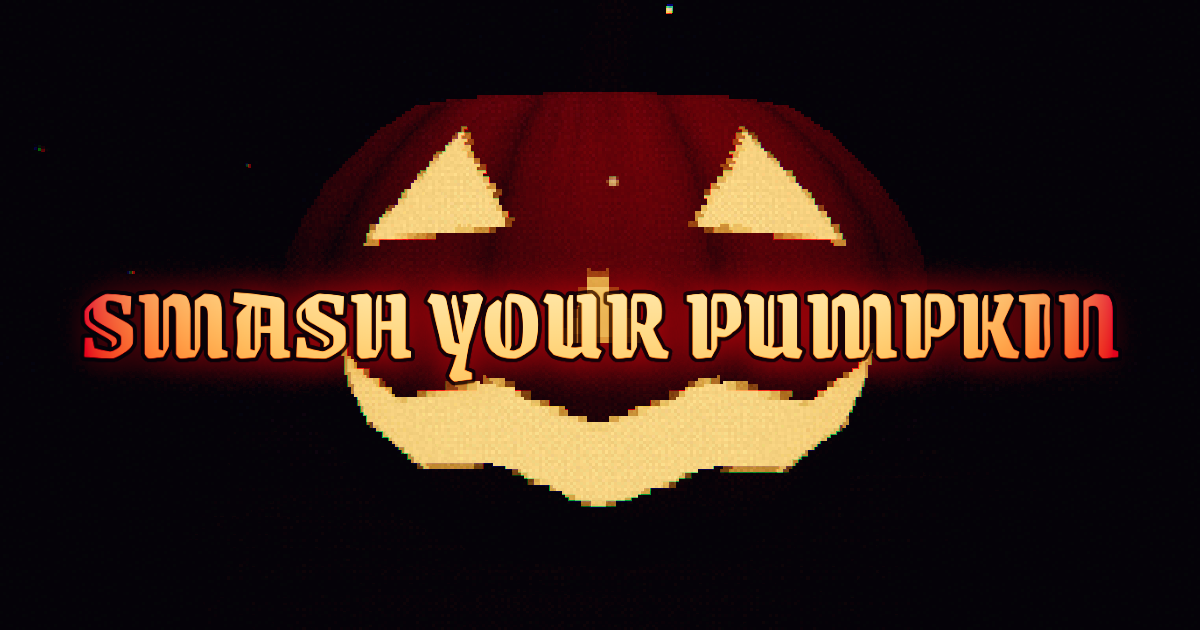
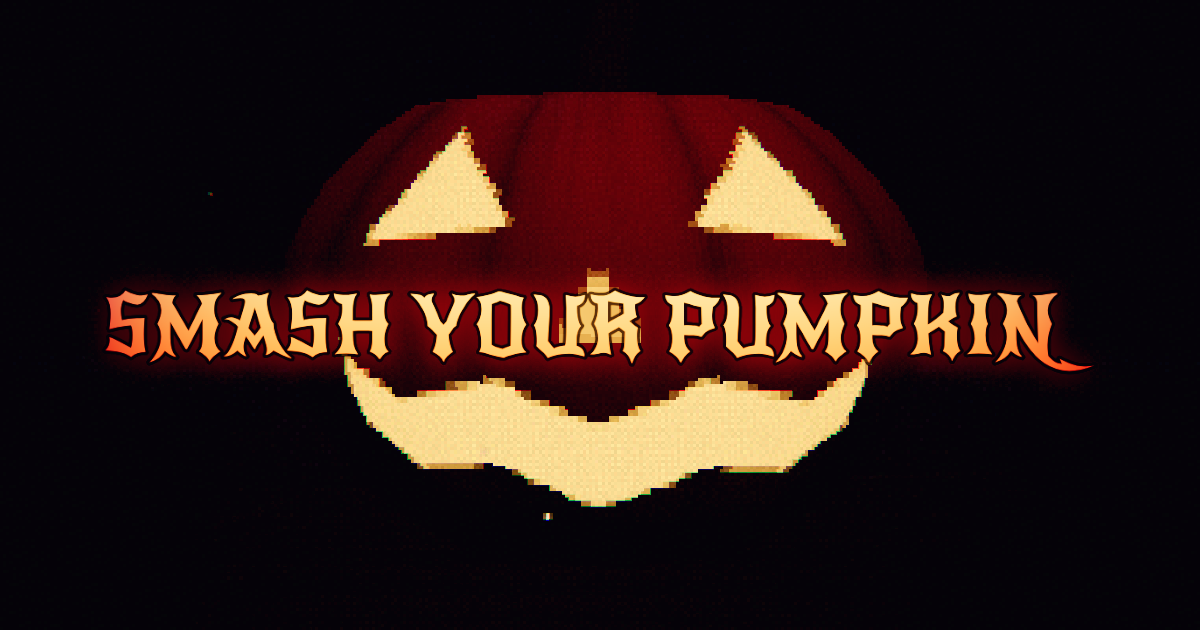
Switch the title face to New Rocker; dots-only loader
- Titles and words use New Rocker (Jacquard 24 stays for numbers).
  Its swashes reach past the advance width, so UI text canvases are now
  sized and centred on the painted ink bounds, and the title face gets
  extra padding; otherwise the tails of N, L, K were clipped.
- The loader is just the stage name with dots ticking after it (drawn
  by an inline script, so they tick before any module loads); the
  progress bar is gone.
- Cover re-rendered with the new face.

Claude-Session: https://claude.ai/code/session_01FvQx2HVCfoZmvo2wAnZAg2

diff --git a/index.html b/index.html
@@ -20,7 +20,7 @@
     <link rel="preconnect" href="https://fonts.googleapis.com" />
     <link rel="preconnect" href="https://fonts.gstatic.com" crossorigin />
     <link
-      href="https://fonts.googleapis.com/css2?family=Grenze+Gotisch:wght@700&family=Jacquard+24&family=Pixelify+Sans:wght@400;700&display=block"
+      href="https://fonts.googleapis.com/css2?family=New+Rocker&family=Jacquard+24&family=Pixelify+Sans:wght@400;700&display=block"
       rel="stylesheet"
     />
     <style>
@@ -33,24 +33,16 @@
         transition: opacity 0.8s ease;
       }
       #loader.done { opacity: 0; pointer-events: none; }
-      /* Same gothic face and ember glow as the in-game titles. */
+      /* Same face and ember glow as the in-game titles. */
       #loader .label {
-        font: 700 clamp(26px, 7vw, 44px) "Grenze Gotisch", serif; text-align: center;
+        font: 400 clamp(26px, 7vw, 44px) "New Rocker", serif; text-align: center;
         background: linear-gradient(#ffe9a8, #ff7a1a); -webkit-background-clip: text; background-clip: text;
         color: transparent; filter: drop-shadow(0 0 10px rgba(255, 74, 16, 0.7));
         animation: flicker 2.2s infinite steps(1); transition: opacity 0.25s ease;
       }
       #loader .label.swap { opacity: 0; }
-      /* Chunky segmented bar: embers filling a charred slot. */
-      #loader .bar {
-        width: min(300px, 70vw); height: 14px; padding: 3px; background: #12060c;
-        border: 2px solid #3b1650; box-shadow: 0 0 0 2px #07030c, 0 0 18px rgba(59, 22, 80, 0.6);
-      }
-      #loader .fill {
-        height: 100%; width: 0; transition: width 0.35s steps(6);
-        background: repeating-linear-gradient(90deg, #ff5a14 0 10px, #ffb347 10px 12px, transparent 12px 15px);
-        filter: drop-shadow(0 0 6px #ff3a0a);
-      }
+      /* The three dots always take their space, so the text never shifts. */
+      #loader .dots span { visibility: hidden; }
       @keyframes flicker {
         0%, 100% { opacity: 1; } 12% { opacity: 0.82; } 14% { opacity: 1; } 47% { opacity: 0.9; }
         49% { opacity: 1; } 71% { opacity: 0.76; } 73% { opacity: 1; }
@@ -60,9 +52,20 @@
   </head>
   <body>
     <div id="loader" role="progressbar" aria-label="Loading" aria-valuemin="0" aria-valuemax="100">
-      <div class="label">lighting the candles...</div>
-      <div class="bar"><div class="fill"></div></div>
+      <div class="label"><span class="text">lighting the candles</span><span class="dots"><span>.</span><span>.</span><span>.</span></span></div>
     </div>
+    <script>
+      // Dots tick before any module has loaded; stops when the loader is gone.
+      (function () {
+        var step = 0;
+        var timer = setInterval(function () {
+          var dots = document.querySelectorAll("#loader .dots span");
+          if (!dots.length) return clearInterval(timer);
+          step = (step + 1) % 4;
+          for (var i = 0; i < dots.length; i++) dots[i].style.visibility = i < step ? "visible" : "hidden";
+        }, 380);
+      })();
+    </script>
     <script type="module" src="/src/main.js"></script>
   </body>
 </html>

diff --git a/src/ui/elements.js b/src/ui/elements.js
@@ -161,12 +161,15 @@ export class UIText extends UIPanel {
     wobble = 0,
     backdrop = null,
   }) {
-    const pad = size * 0.45;
+    // The title face has swashes (tails on N, L, K...) that reach well past
+    // the advance width and below the baseline: give it extra room.
+    const swash = font === "title";
+    const pad = size * (swash ? 0.7 : 0.45);
     const measured = measure(text, cssFont(font, size)) + pad * 2;
     const boxWidth = width ?? measured;
     super({
       width: boxWidth,
-      height: size * 1.55,
+      height: size * (swash ? 1.95 : 1.55),
       anchor,
       intensity,
       wobble,
@@ -186,7 +189,12 @@ export class UIText extends UIPanel {
 function measure(text, css) {
   const ctx = measure.ctx ?? (measure.ctx = document.createElement("canvas").getContext("2d"));
   ctx.font = css;
-  return ctx.measureText(text).width;
+  return inkWidth(ctx.measureText(text));
+}
+
+/** Width actually painted, which for swash letters exceeds the advance width. */
+function inkWidth(metrics) {
+  return Math.max(metrics.width, metrics.actualBoundingBoxLeft + metrics.actualBoundingBoxRight);
 }
 
 function drawText(ctx, w, h, text, { font, size, pad, colors, glow, anchor, backdrop }) {
@@ -203,7 +211,7 @@ function drawText(ctx, w, h, text, { font, size, pad, colors, glow, anchor, back
   let px = size;
   ctx.font = cssFont(font, px);
   const available = w - pad * 2;
-  const textWidth = ctx.measureText(text).width;
+  const textWidth = inkWidth(ctx.measureText(text));
   if (textWidth > available) {
     px = Math.floor(size * (available / textWidth));
     ctx.font = cssFont(font, px);
@@ -212,7 +220,16 @@ function drawText(ctx, w, h, text, { font, size, pad, colors, glow, anchor, back
   ctx.textBaseline = "middle";
   const side = anchor.includes("left") ? "left" : anchor.includes("right") ? "right" : "center";
   ctx.textAlign = side;
-  const x = side === "left" ? pad : side === "right" ? w - pad : w / 2;
+  // Measured after textAlign is set: the bounding box is relative to it.
+  const metrics = ctx.measureText(text);
+  // Centred text is centred on its ink, so a long swash on one side doesn't
+  // push the word off-centre or out of the canvas.
+  const x =
+    side === "left"
+      ? pad
+      : side === "right"
+        ? w - pad
+        : w / 2 + (metrics.actualBoundingBoxLeft - metrics.actualBoundingBoxRight) / 2;
   const y = h / 2 + px * 0.05;
 
   const gradient = ctx.createLinearGradient(0, y - px / 2, 0, y + px / 2);

diff --git a/src/core/loader.js b/src/core/loader.js
@@ -1,22 +1,24 @@
 // Drives the HTML loader in index.html (it is visible before any script runs,
-// so there is never a black screen while the game boots).
+// so there is never a black screen while the game boots): a single line of
+// text naming the current stage, with dots ticking after it.
 
 const root = document.getElementById("loader");
-const fill = root?.querySelector(".fill");
 const label = root?.querySelector(".label");
+const text = root?.querySelector(".text");
 let current = 0;
 
-/** Moves the bar to `fraction` (never backwards) and optionally relabels it. */
-export function progress(fraction, text) {
+/** Records progress (for assistive tech) and, if given, switches the stage text. */
+export function progress(fraction, stage) {
   if (!root) return;
   current = Math.max(current, Math.min(1, fraction));
-  fill.style.width = `${Math.round(current * 100)}%`;
   root.setAttribute("aria-valuenow", String(Math.round(current * 100)));
-  if (text && text !== label.textContent) {
-    // Quick fade between stage names.
+  if (stage) {
+    // Strip any dots: the ticking dots are drawn by the loader itself.
+    stage = stage.replace(/\.+$/, "");
+    if (stage === text.textContent) return;
     label.classList.add("swap");
     setTimeout(() => {
-      label.textContent = text;
+      text.textContent = stage;
       label.classList.remove("swap");
     }, 250);
   }
@@ -30,9 +32,9 @@ export function finish() {
   setTimeout(() => root.remove(), 900);
 }
 
-/** Shown in place of the bar when the game can't start (e.g. no WebGL). */
-export function fail(text) {
+/** Shown instead of a stage when the game can't start (e.g. no WebGL). */
+export function fail(message) {
   if (!root) return;
-  label.textContent = text;
-  root.querySelector(".bar").style.display = "none";
+  text.textContent = message;
+  root.querySelector(".dots")?.remove();
 }

diff --git a/src/config.js b/src/config.js
@@ -103,11 +103,11 @@ export const PALETTE = {
   ink: "#1a0d0a",
 };
 
-// Titles and words: a gothic face in the spirit of Blasphemous that stays
-// legible. Numbers keep the pixel blackletter, which reads fine for digits.
+// Titles and words: New Rocker, a vintage blackletter with a carved, rock
+// poster feel. Numbers keep the pixel blackletter, which reads well for digits.
 export const FONTS = {
-  title: { family: '"Grenze Gotisch", serif', weight: 700 },
-  numbers: { family: '"Jacquard 24", "Grenze Gotisch", serif', weight: 400 },
+  title: { family: '"New Rocker", serif', weight: 400 },
+  numbers: { family: '"Jacquard 24", "New Rocker", serif', weight: 400 },
   body: { family: '"Pixelify Sans", monospace', weight: 400 },
 };
 
